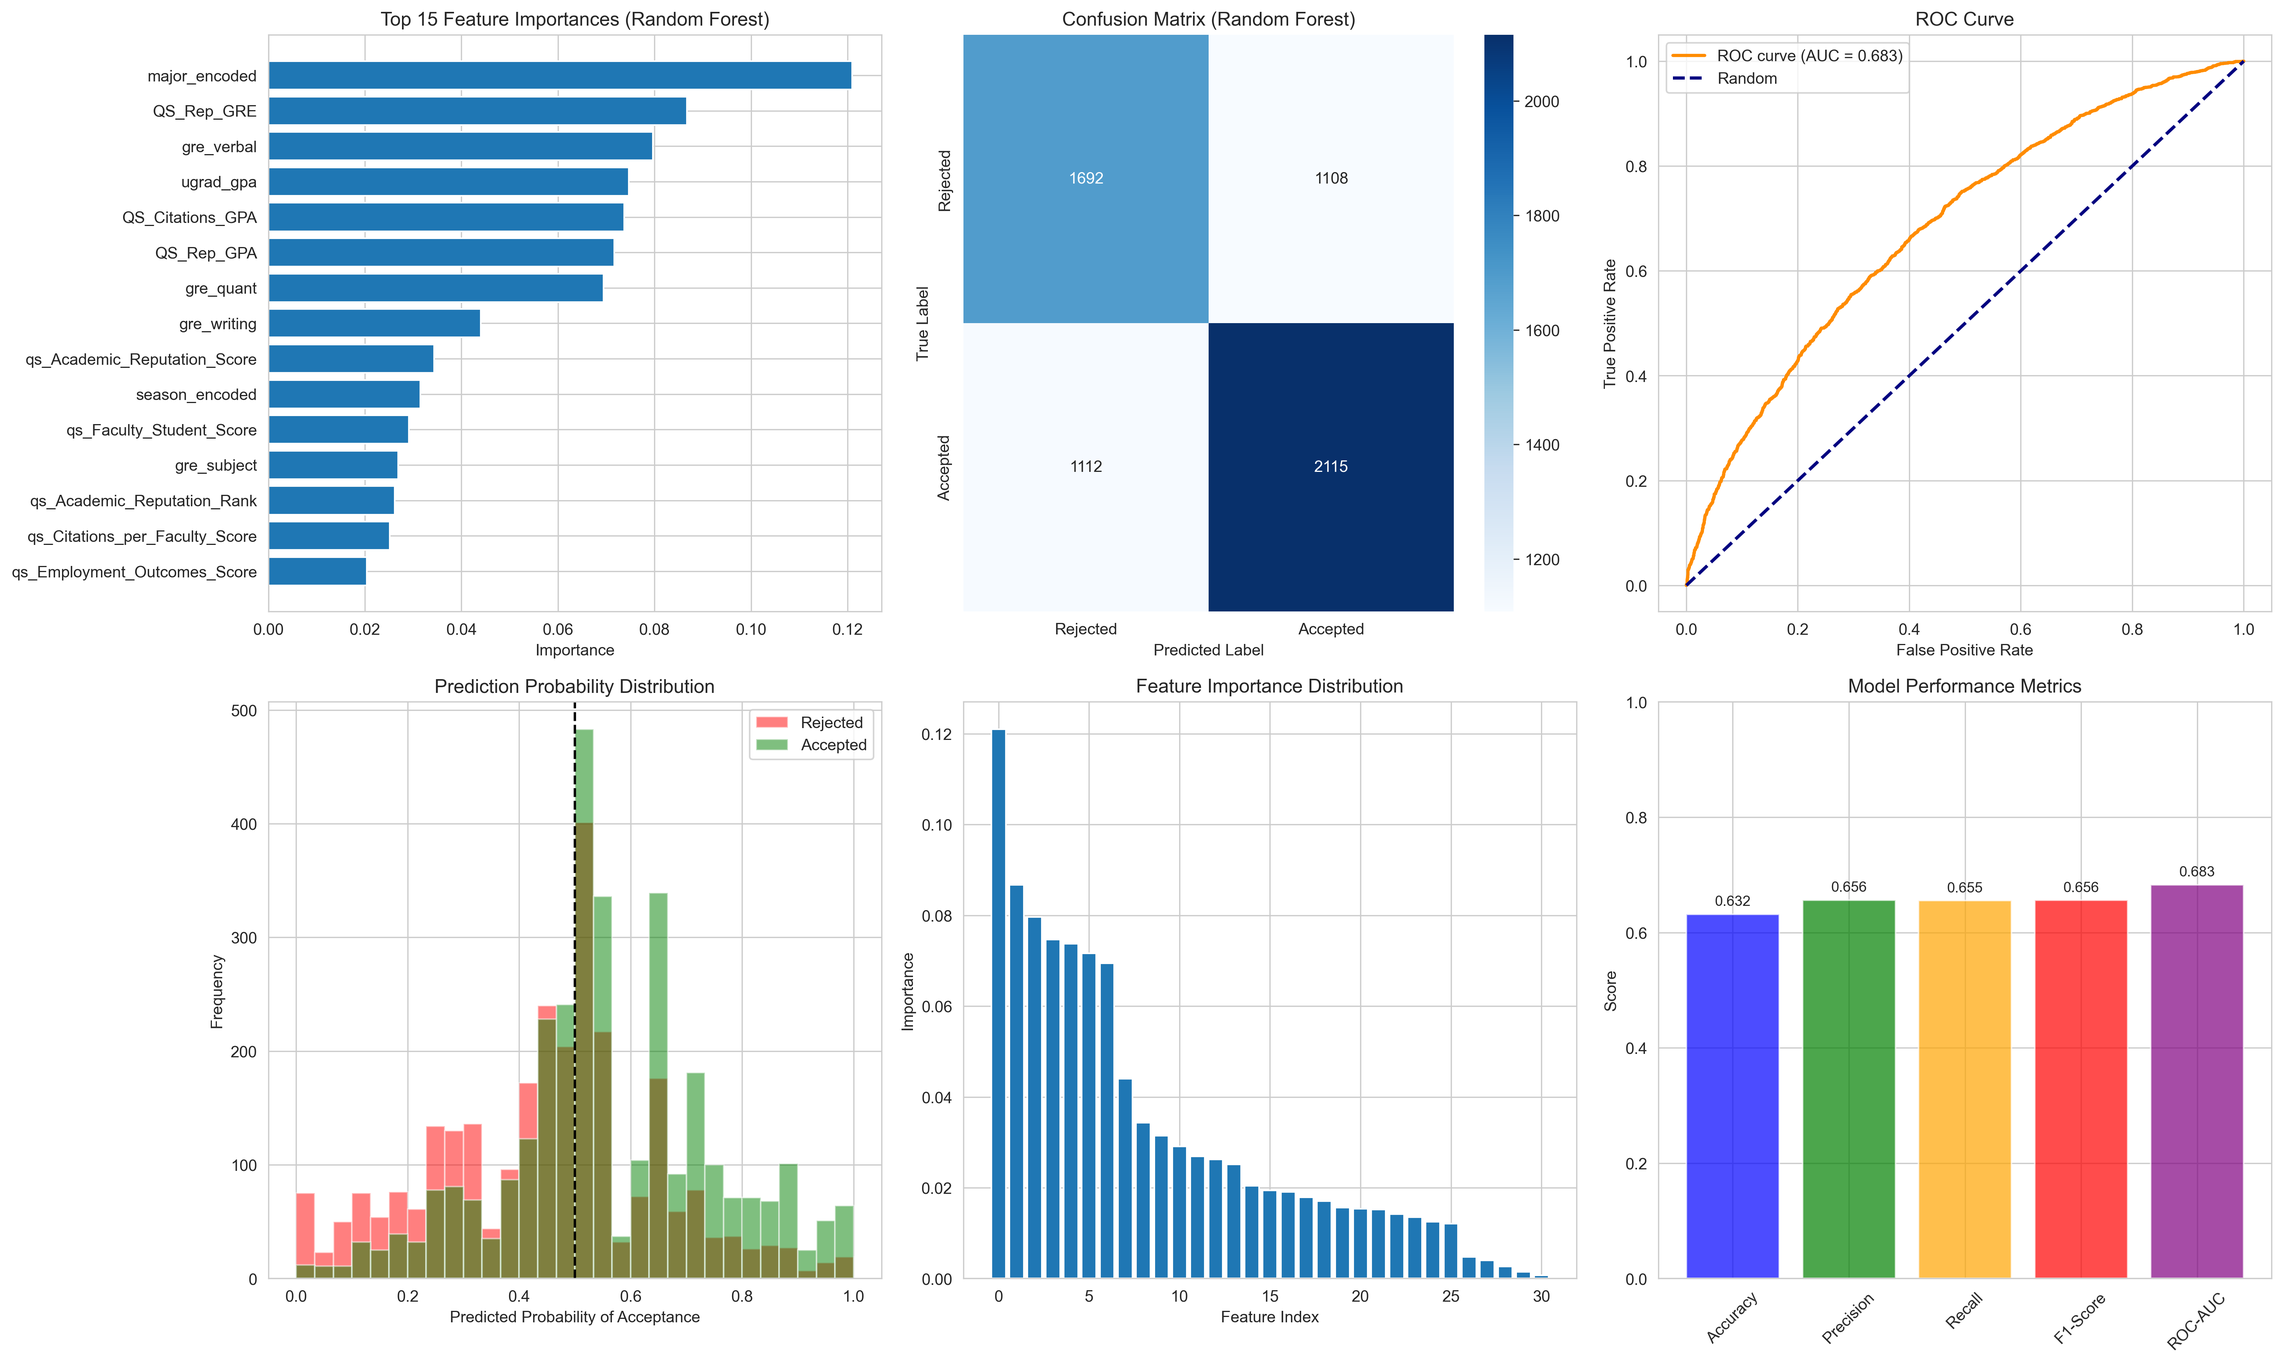
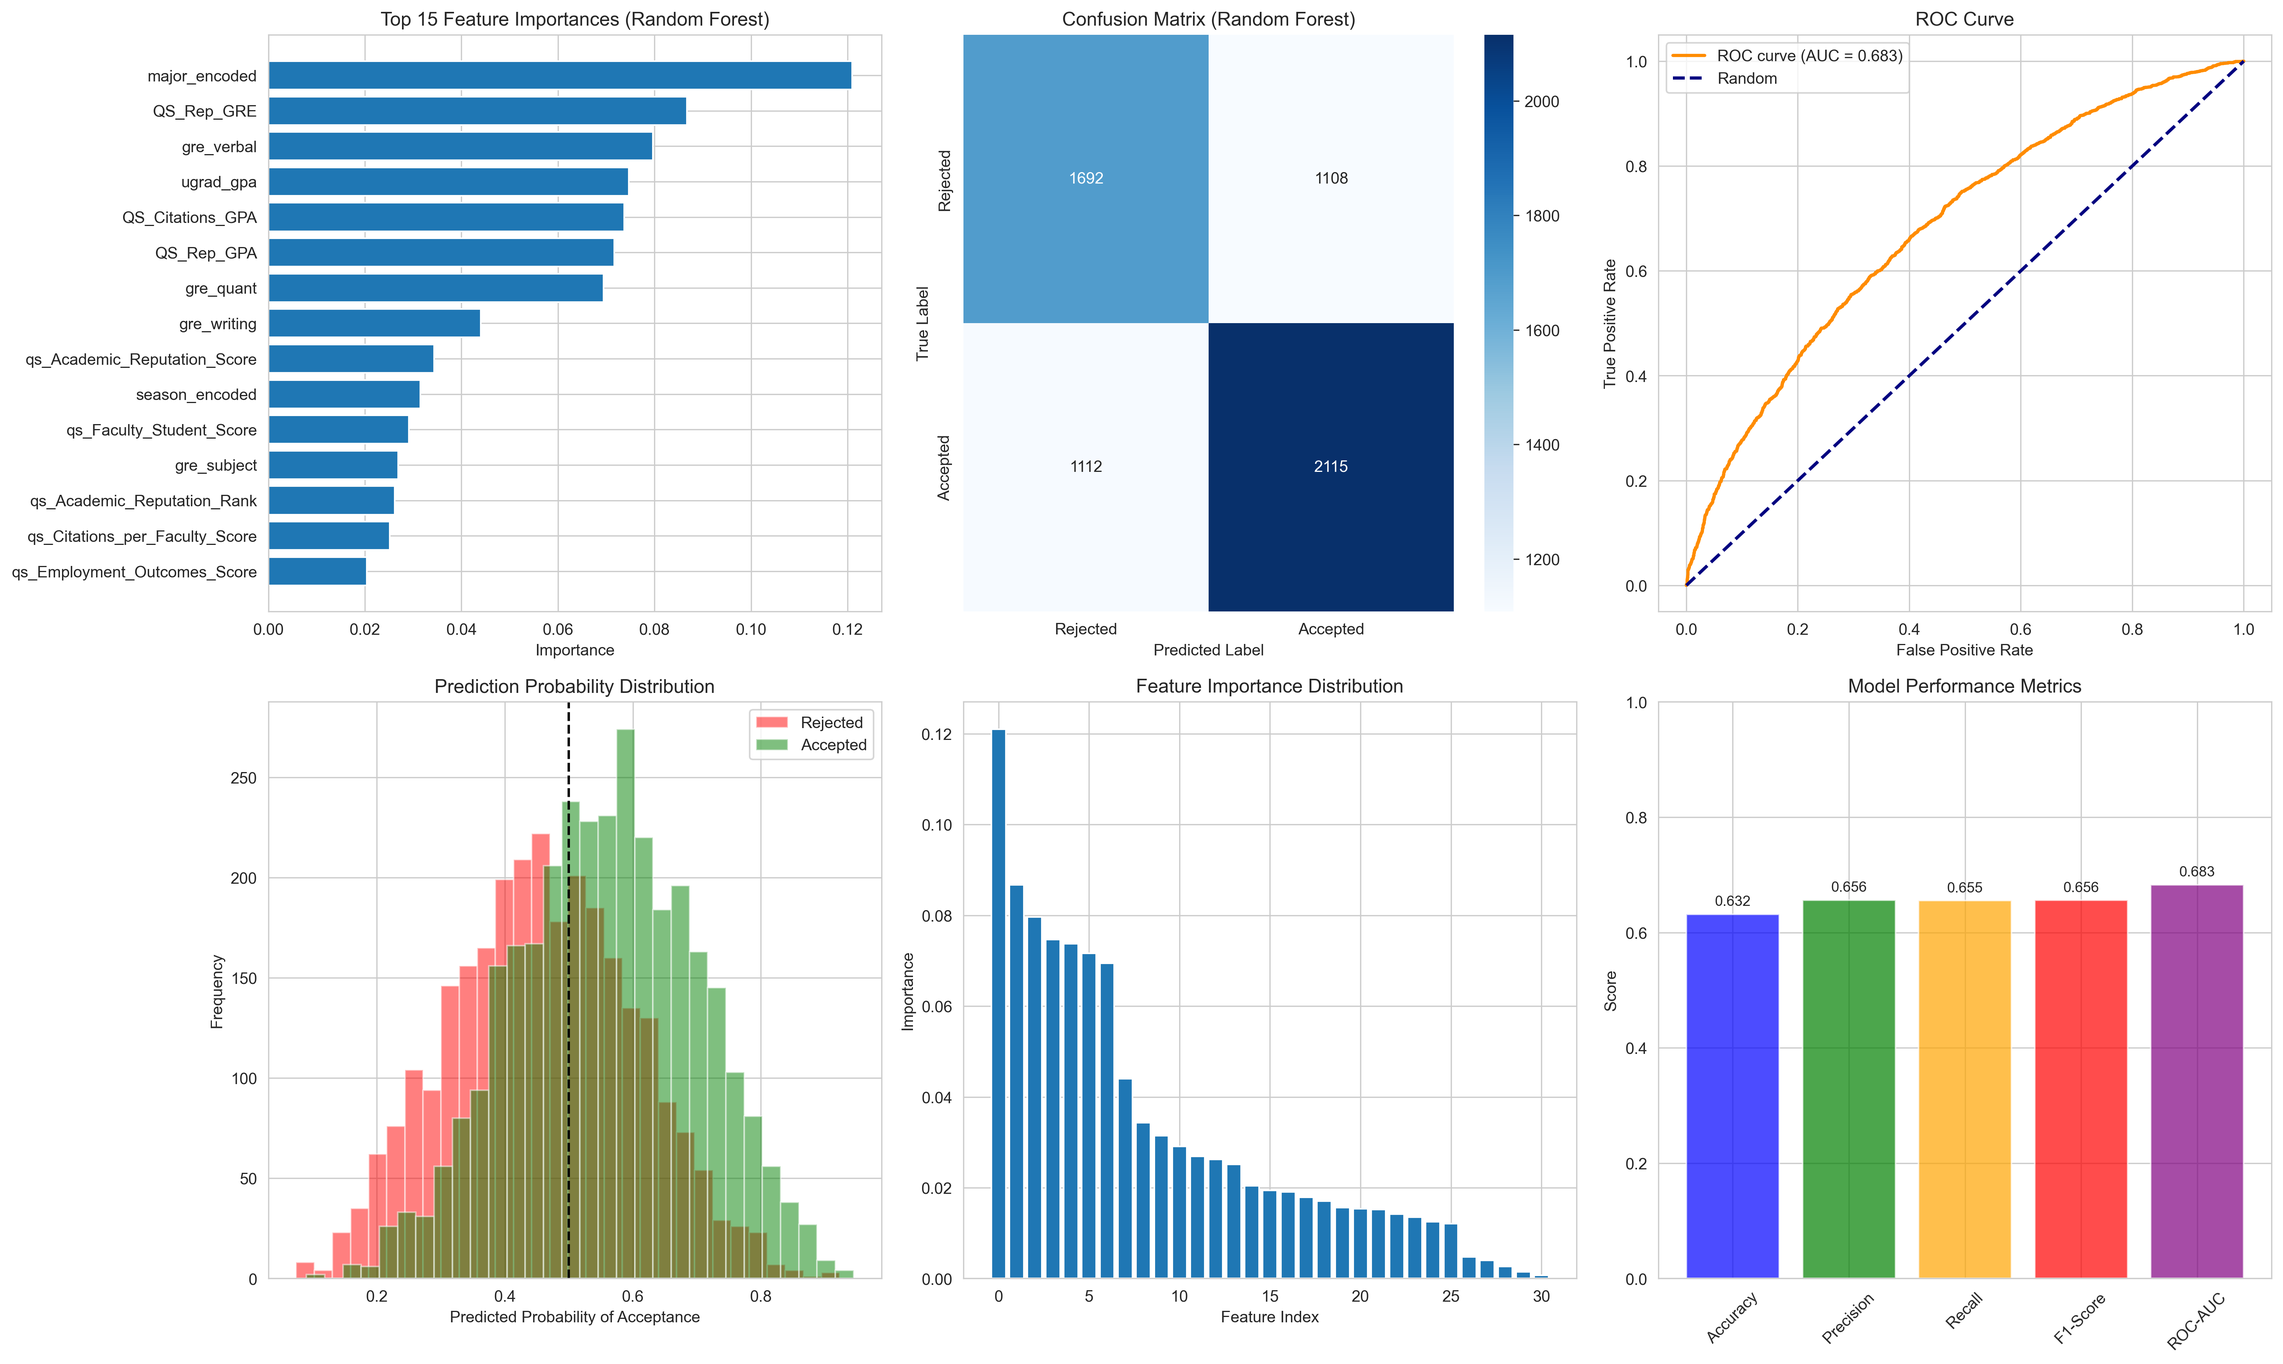
added neural network

Changed region(s): [[0.1246, 0.529, 0.3739, 0.9336]]

diff --git a/ml.py b/ml.py
@@ -26,13 +26,15 @@ warnings.filterwarnings('ignore')
 from sklearn.model_selection import train_test_split, cross_val_score, GridSearchCV
 from sklearn.tree import DecisionTreeClassifier, plot_tree
 from sklearn.ensemble import RandomForestClassifier
+from sklearn.linear_model import LogisticRegression, LinearRegression
+from sklearn.neural_network import MLPClassifier
 from sklearn.cluster import KMeans
 from sklearn.preprocessing import StandardScaler, LabelEncoder
 from sklearn.decomposition import PCA
 from sklearn.metrics import (
     accuracy_score, classification_report, confusion_matrix,
     precision_score, recall_score, f1_score, roc_auc_score, roc_curve,
-    silhouette_score, davies_bouldin_score
+    silhouette_score, davies_bouldin_score, mean_squared_error, r2_score
 )
 
 # Set style
@@ -262,13 +264,19 @@ def preprocess_data(df):
     return X, y, df_ml[valid_mask]
 
 
-def train_decision_tree(X, y):
+def train_all_models(X, y):
     """
-    Train a Decision Tree classifier for admission prediction with hyperparameter tuning
-    Also try Random Forest for comparison
+    Train multiple models for admission prediction:
+    - Random Forest
+    - Decision Tree
+    - Logistic Regression
+    - Linear Regression (for comparison, treating as classification)
+    - Neural Network (MLPClassifier)
+    Compare and select the best performing model
     """
     print("\n" + "="*60)
-    print("DECISION TREE & RANDOM FOREST CLASSIFIERS")
+    print("MULTIPLE MODEL COMPARISON")
+    print("Random Forest, Decision Tree, Logistic Regression, Linear Regression, Neural Network")
     print("="*60)
     
     # Split data into training and testing sets
@@ -279,8 +287,16 @@ def train_decision_tree(X, y):
     print(f"Training set size: {X_train.shape[0]}")
     print(f"Test set size: {X_test.shape[0]}")
     
-    # Try Random Forest first (usually performs better)
-    print("\nTraining Random Forest Classifier...")
+    # Standardize features for linear models
+    scaler = StandardScaler()
+    X_train_scaled = scaler.fit_transform(X_train)
+    X_test_scaled = scaler.transform(X_test)
+    
+    # Store all model results
+    all_models = {}
+    
+    # 1. Random Forest
+    print("\n[1/5] Training Random Forest Classifier...")
     rf_param_grid = {
         'n_estimators': [100, 200],
         'max_depth': [10, 15, 20],
@@ -296,14 +312,17 @@ def train_decision_tree(X, y):
         n_jobs=-1, verbose=0
     )
     rf_grid_search.fit(X_train, y_train)
-    
-    print(f"Random Forest - Best parameters: {rf_grid_search.best_params_}")
-    print(f"Random Forest - Best CV score: {rf_grid_search.best_score_:.4f}")
-    
     rf_classifier = rf_grid_search.best_estimator_
+    print(f"  Best CV score: {rf_grid_search.best_score_:.4f}")
+    all_models['Random Forest'] = {
+        'model': rf_classifier,
+        'cv_score': rf_grid_search.best_score_,
+        'params': rf_grid_search.best_params_,
+        'use_scaled': False
+    }
     
-    # Also train Decision Tree for comparison
-    print("\nTraining Decision Tree Classifier...")
+    # 2. Decision Tree
+    print("\n[2/5] Training Decision Tree Classifier...")
     dt_param_grid = {
         'max_depth': [10, 12, 15, 18],
         'min_samples_split': [30, 40, 50],
@@ -319,31 +338,204 @@ def train_decision_tree(X, y):
         n_jobs=-1, verbose=0
     )
     dt_grid_search.fit(X_train, y_train)
-    
-    print(f"Decision Tree - Best parameters: {dt_grid_search.best_params_}")
-    print(f"Decision Tree - Best CV score: {dt_grid_search.best_score_:.4f}")
-    
     dt_classifier = dt_grid_search.best_estimator_
+    print(f"  Best CV score: {dt_grid_search.best_score_:.4f}")
+    all_models['Decision Tree'] = {
+        'model': dt_classifier,
+        'cv_score': dt_grid_search.best_score_,
+        'params': dt_grid_search.best_params_,
+        'use_scaled': False
+    }
     
-    # Choose the better model
-    if rf_grid_search.best_score_ >= dt_grid_search.best_score_:
-        print("\n[+] Random Forest performs better - using it as final model")
-        classifier = rf_classifier
-        model_name = "Random Forest"
+    # 3. Logistic Regression
+    print("\n[3/5] Training Logistic Regression...")
+    lr_param_grid = {
+        'C': [0.001, 0.01, 0.1, 1, 10, 100],
+        'penalty': ['l1', 'l2', 'elasticnet'],
+        'solver': ['liblinear', 'saga'],
+        'class_weight': ['balanced', None],
+        'max_iter': [1000]
+    }
+    
+    lr_base = LogisticRegression(random_state=42, n_jobs=-1)
+    lr_grid_search = GridSearchCV(
+        lr_base, lr_param_grid, cv=5, scoring='roc_auc',
+        n_jobs=-1, verbose=0
+    )
+    lr_grid_search.fit(X_train_scaled, y_train)
+    lr_classifier = lr_grid_search.best_estimator_
+    print(f"  Best CV score: {lr_grid_search.best_score_:.4f}")
+    all_models['Logistic Regression'] = {
+        'model': lr_classifier,
+        'cv_score': lr_grid_search.best_score_,
+        'params': lr_grid_search.best_params_,
+        'use_scaled': True
+    }
+    
+    # 4. Linear Regression (for comparison - convert to classification)
+    print("\n[4/5] Training Linear Regression (converted to classification)...")
+    lin_reg = LinearRegression()
+    lin_reg.fit(X_train_scaled, y_train)
+    # Convert regression predictions to classification (threshold at 0.5)
+    lin_reg_pred_train = (lin_reg.predict(X_train_scaled) >= 0.5).astype(int)
+    lin_reg_pred_test = (lin_reg.predict(X_test_scaled) >= 0.5).astype(int)
+    
+    # Calculate ROC-AUC manually for Linear Regression
+    from sklearn.metrics import roc_auc_score
+    lin_reg_proba_train = np.clip(lin_reg.predict(X_train_scaled), 0, 1)
+    lin_reg_cv_scores_list = []
+    from sklearn.model_selection import KFold
+    kf = KFold(n_splits=5, shuffle=True, random_state=42)
+    for train_idx, val_idx in kf.split(X_train_scaled):
+        lin_reg_fold = LinearRegression()
+        lin_reg_fold.fit(X_train_scaled[train_idx], y_train.iloc[train_idx])
+        y_val_proba = np.clip(lin_reg_fold.predict(X_train_scaled[val_idx]), 0, 1)
+        try:
+            auc = roc_auc_score(y_train.iloc[val_idx], y_val_proba)
+            lin_reg_cv_scores_list.append(auc)
+        except:
+            lin_reg_cv_scores_list.append(0.5)  # Default if can't calculate
+    
+    lin_reg_cv_score = np.mean(lin_reg_cv_scores_list) if lin_reg_cv_scores_list else 0.5
+    print(f"  Best CV score: {lin_reg_cv_score:.4f}")
+    all_models['Linear Regression'] = {
+        'model': lin_reg,
+        'cv_score': lin_reg_cv_score,
+        'params': {},
+        'use_scaled': True,
+        'is_regression': True
+    }
+    
+    # 5. Neural Network (MLPClassifier) - Optimized but faster
+    print("\n[5/5] Training Neural Network (MLPClassifier)...")
+    
+    # Smaller, focused grid for faster training
+    nn_param_grid = {
+        'hidden_layer_sizes': [
+            (100,), (150,), (200,),
+            (100, 50), (150, 100), (200, 100),
+            (150, 100, 50)
+        ],
+        'activation': ['relu', 'tanh'],
+        'alpha': [0.0001, 0.001, 0.01],
+        'learning_rate': ['adaptive'],
+        'learning_rate_init': [0.001, 0.01],
+        'max_iter': [1000],
+        'solver': ['adam'],
+        'batch_size': [64, 128]
+    }
+    
+    nn_base = MLPClassifier(random_state=42, early_stopping=True, 
+                           validation_fraction=0.1, n_iter_no_change=15,
+                           max_iter=1000)
+    nn_grid_search = GridSearchCV(
+        nn_base, nn_param_grid, cv=3, scoring='roc_auc',  # Reduced CV folds for speed
+        n_jobs=-1, verbose=0
+    )
+    nn_grid_search.fit(X_train_scaled, y_train)
+    nn_classifier = nn_grid_search.best_estimator_
+    initial_score = nn_grid_search.best_score_
+    print(f"  Initial CV score: {initial_score:.4f}")
+    print(f"  Best parameters: {nn_grid_search.best_params_}")
+    
+    # Quick refinement if promising (only if close to Random Forest)
+    if initial_score > 0.64:  # Only refine if close to best
+        print("  Quick refinement around best parameters...")
+        best_hidden = nn_grid_search.best_params_['hidden_layer_sizes']
+        best_activation = nn_grid_search.best_params_['activation']
+        best_alpha = nn_grid_search.best_params_['alpha']
+        best_lr = nn_grid_search.best_params_['learning_rate_init']
+        
+        # Small refined grid
+        if isinstance(best_hidden, tuple) and len(best_hidden) == 1:
+            hidden_variants = [
+                best_hidden,
+                (int(best_hidden[0]*1.2),),
+                (int(best_hidden[0]*0.8),),
+                (best_hidden[0], best_hidden[0]//2)
+            ]
+        else:
+            hidden_variants = [best_hidden, (150, 100), (200, 100)]
+        
+        nn_param_grid_refined = {
+            'hidden_layer_sizes': hidden_variants[:4],
+            'activation': [best_activation],
+            'alpha': [best_alpha * 0.5, best_alpha, best_alpha * 1.5],
+            'learning_rate': ['adaptive'],
+            'learning_rate_init': [best_lr * 0.5, best_lr, best_lr * 2],
+            'max_iter': [1500],
+            'solver': ['adam'],
+            'batch_size': [64, 128]
+        }
+        
+        nn_refined = MLPClassifier(random_state=42, early_stopping=True,
+                                  validation_fraction=0.1, n_iter_no_change=15,
+                                  max_iter=1500)
+        nn_refined_search = GridSearchCV(
+            nn_refined, nn_param_grid_refined, cv=3, scoring='roc_auc',
+            n_jobs=-1, verbose=0
+        )
+        nn_refined_search.fit(X_train_scaled, y_train)
+        
+        if nn_refined_search.best_score_ > initial_score:
+            print(f"  Refined CV score: {nn_refined_search.best_score_:.4f} (improved!)")
+            nn_classifier = nn_refined_search.best_estimator_
+            nn_grid_search.best_score_ = nn_refined_search.best_score_
+            nn_grid_search.best_params_ = nn_refined_search.best_params_
+        else:
+            print(f"  Refined score: {nn_refined_search.best_score_:.4f} (no improvement)")
+    
+    all_models['Neural Network'] = {
+        'model': nn_classifier,
+        'cv_score': nn_grid_search.best_score_,
+        'params': nn_grid_search.best_params_,
+        'use_scaled': True
+    }
+    
+    # Find best model
+    best_model_name = max(all_models.keys(), key=lambda k: all_models[k]['cv_score'])
+    best_model_info = all_models[best_model_name]
+    classifier = best_model_info['model']
+    model_name = best_model_name
+    
+    print(f"\n{'='*60}")
+    print(f"MODEL COMPARISON SUMMARY")
+    print(f"{'='*60}")
+    for name, info in sorted(all_models.items(), key=lambda x: x[1]['cv_score'], reverse=True):
+        marker = " [BEST]" if name == best_model_name else ""
+        print(f"{name:25s}: CV Score = {info['cv_score']:.4f}{marker}")
+    print(f"{'='*60}")
+    print(f"\n[+] Best Model: {best_model_name} (CV Score: {best_model_info['cv_score']:.4f})")
+    
+    # Use scaled or unscaled data based on model
+    if best_model_info['use_scaled']:
+        X_train_final = X_train_scaled
+        X_test_final = X_test_scaled
     else:
-        print("\n[+] Decision Tree performs better - using it as final model")
-        classifier = dt_classifier
-        model_name = "Decision Tree"
+        X_train_final = X_train
+        X_test_final = X_test
     
     # Cross-validation scores
-    cv_scores = cross_val_score(classifier, X_train, y_train, cv=5, scoring='accuracy')
-    print(f"\nCross-validation accuracy scores: {cv_scores}")
-    print(f"Mean CV accuracy: {cv_scores.mean():.4f} (+/- {cv_scores.std() * 2:.4f})")
+    if best_model_info.get('is_regression', False):
+        cv_scores = cross_val_score(classifier, X_train_final, y_train, cv=5, scoring='r2')
+        print(f"\nCross-validation R2 scores: {cv_scores}")
+        print(f"Mean CV R2: {cv_scores.mean():.4f} (+/- {cv_scores.std() * 2:.4f})")
+    else:
+        cv_scores = cross_val_score(classifier, X_train_final, y_train, cv=5, scoring='accuracy')
+        print(f"\nCross-validation accuracy scores: {cv_scores}")
+        print(f"Mean CV accuracy: {cv_scores.mean():.4f} (+/- {cv_scores.std() * 2:.4f})")
     
     # Predictions
-    y_train_pred = classifier.predict(X_train)
-    y_test_pred = classifier.predict(X_test)
-    y_test_proba = classifier.predict_proba(X_test)[:, 1]
+    if best_model_info.get('is_regression', False):
+        y_train_pred_proba = classifier.predict(X_train_final)
+        y_test_pred_proba = classifier.predict(X_test_final)
+        y_train_pred = (y_train_pred_proba >= 0.5).astype(int)
+        y_test_pred = (y_test_pred_proba >= 0.5).astype(int)
+        y_test_proba = np.clip(y_test_pred_proba, 0, 1)  # Clip to [0, 1] for ROC
+    else:
+        y_train_pred = classifier.predict(X_train_final)
+        y_test_pred = classifier.predict(X_test_final)
+        y_test_proba = classifier.predict_proba(X_test_final)[:, 1]
     
     # Evaluate model
     train_accuracy = accuracy_score(y_train, y_train_pred)
@@ -459,11 +651,10 @@ def train_decision_tree(X, y):
         'test_roc_auc': test_roc_auc,
         'confusion_matrix': cm,
         'classification_report': class_report,
-        'best_params': rf_grid_search.best_params_ if model_name == "Random Forest" else dt_grid_search.best_params_,
+        'best_params': best_model_info['params'],
         'cv_mean': cv_scores.mean(),
         'cv_std': cv_scores.std(),
-        'rf_cv_score': rf_grid_search.best_score_,
-        'dt_cv_score': dt_grid_search.best_score_
+        'all_models': all_models
     }
 
 
@@ -717,9 +908,17 @@ def generate_report(dt_results, feature_importance, clustering_results=None):
         f.write(f"{dt_results['model_name'].upper()} CLASSIFIER RESULTS\n")
         f.write("-"*60 + "\n")
         f.write(f"Model Type: {dt_results['model_name']}\n")
-        f.write(f"Best Hyperparameters: {dt_results['best_params']}\n")
-        f.write(f"Random Forest CV Score: {dt_results.get('rf_cv_score', 'N/A'):.4f}\n")
-        f.write(f"Decision Tree CV Score: {dt_results.get('dt_cv_score', 'N/A'):.4f}\n\n")
+        f.write(f"Best Hyperparameters: {dt_results['best_params']}\n\n")
+        
+        # Model comparison
+        if 'all_models' in dt_results:
+            f.write("MODEL COMPARISON (CV Scores):\n")
+            f.write("-"*60 + "\n")
+            for name, info in sorted(dt_results['all_models'].items(), 
+                                    key=lambda x: x[1]['cv_score'], reverse=True):
+                marker = " [SELECTED]" if name == dt_results['model_name'] else ""
+                f.write(f"{name:25s}: {info['cv_score']:.4f}{marker}\n")
+            f.write("\n")
         f.write(f"Cross-Validation Accuracy: {dt_results['cv_mean']:.4f} (+/- {dt_results['cv_std']:.4f})\n")
         f.write(f"Training Accuracy: {dt_results['train_accuracy']:.4f}\n")
         f.write(f"Test Accuracy: {dt_results['test_accuracy']:.4f}\n")
@@ -788,8 +987,8 @@ def main():
     # Perform Clustering Analysis
     clustering_model, clustering_scaler, cluster_labels, clustering_results = perform_clustering_analysis(X, y)
     
-    # Train Decision Tree / Random Forest
-    dt_model, feature_importance, dt_results = train_decision_tree(X, y)
+    # Train all models and compare
+    dt_model, feature_importance, dt_results = train_all_models(X, y)
     
     # Generate report
     generate_report(dt_results, feature_importance, clustering_results)
